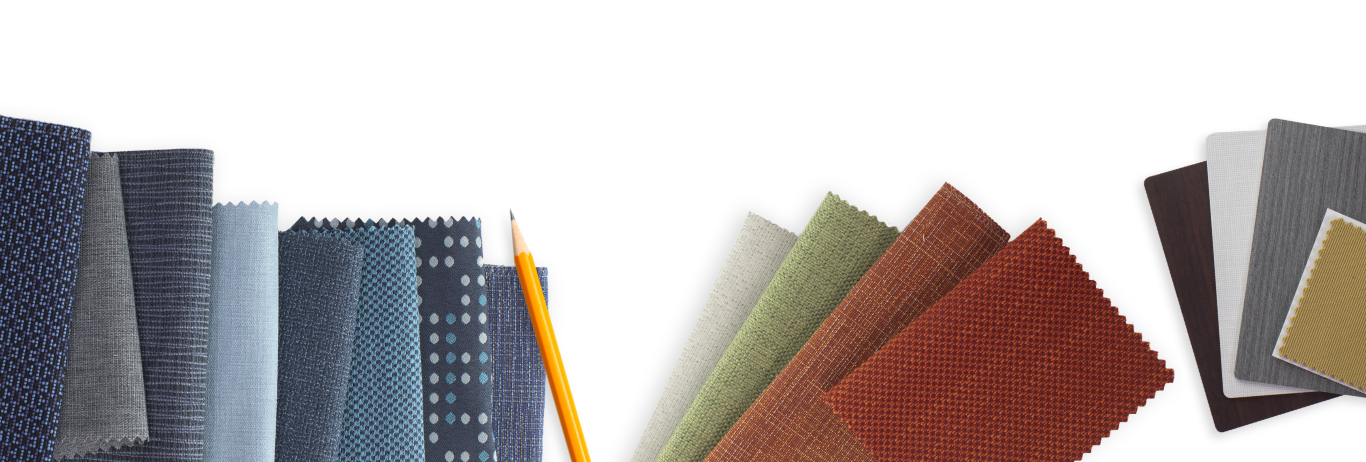
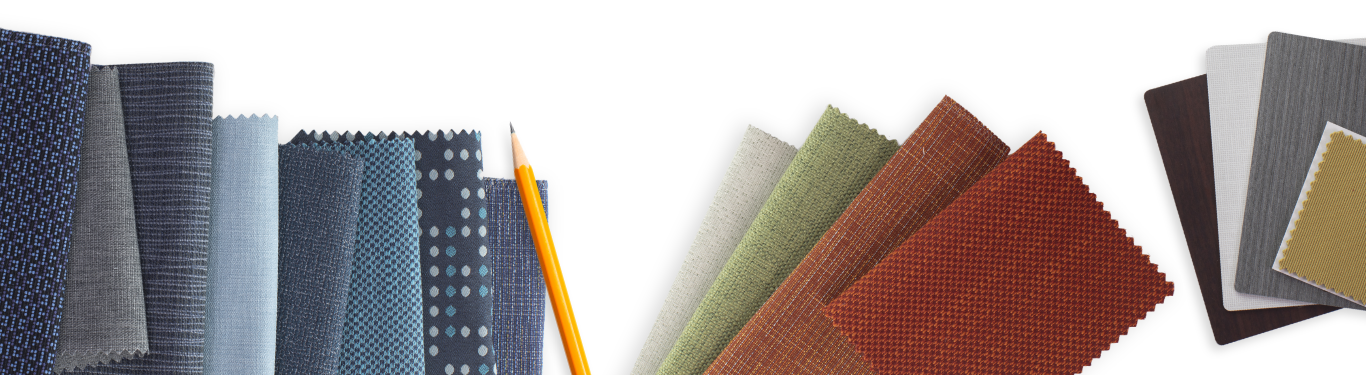
AQM, Walls, and Workspace Updates ready for Fellowes Review

diff --git a/css/megacat-walls.css b/css/megacat-walls.css
@@ -27,19 +27,19 @@
   margin: 0 auto;
 }
 .titanvategorybg {
-  background: url(../img/megacat-walls/product-category-titan.png) no-repeat;
+  background: url(../img/megacat-walls/product-category-titan.jpg) no-repeat;
   background-size: cover;
   background-position: center left;
   position: relative;
 }
 .volovategorybg {
-  background: url(../img/megacat-walls/product-category-volo.png) no-repeat;
+  background: url(../img/megacat-walls/product-category-volo.jpg) no-repeat;
   background-size: cover;
   background-position: center left;
   position: relative;
 }
 .trendwallvategorybg {
-  background: url(../img/megacat-walls/product-category-trendwall.png) no-repeat;
+  background: url(../img/megacat-walls/product-category-trendwall.jpg) no-repeat;
   background-size: cover;
   background-position: center left;
   position: relative;
@@ -310,7 +310,7 @@
   max-width: 180px;
   width: 100%;
 }
-.ideate-link::after{
+.ideate-link::after {
   z-index: 1000;
 }
 @media (min-width: 768px) {
@@ -735,7 +735,7 @@
 .volo-banner-img img {
   height: 600px;
 }
-.ideate-section{
+.ideate-section {
   overflow-y: hidden;
 }
 @media (min-width: 768px) {
@@ -799,7 +799,7 @@
   .volo-banner-img img {
     height: 830px;
   }
-  .ideate-concept-create-section{
+  .ideate-concept-create-section {
     min-height: 700px;
   }
 }
@@ -863,9 +863,9 @@
     padding: 0;
   }
 }
-@media (max-width:500px){
-  .ideate-image{
-    transform-origin: center 97px;
+@media (max-width: 500px) {
+  .ideate-image {
+    transform-origin: center 80px;
   }
 }
 /* trendwall css end */

diff --git a/megacat-walls.html b/megacat-walls.html
@@ -1002,7 +1002,7 @@
     <main id="primary-content" class="position-relative">
       <!-- Start your project here-->
       <section class="band megacaraqmbg position-relative dark-img-overlay">
-        <img src="img/megacat-walls/walls-header-img.png" class="img-fluid w-100" />
+        <img src="img/megacat-walls/walls-header-img.jpg" class="img-fluid w-100" />
         <div class="header-banner-text">
           <h1 class="banner-text__header">Modular Walls</h1>
           <div class="banner-text__subtitle">Your Way, On Time, In Budget</div>
